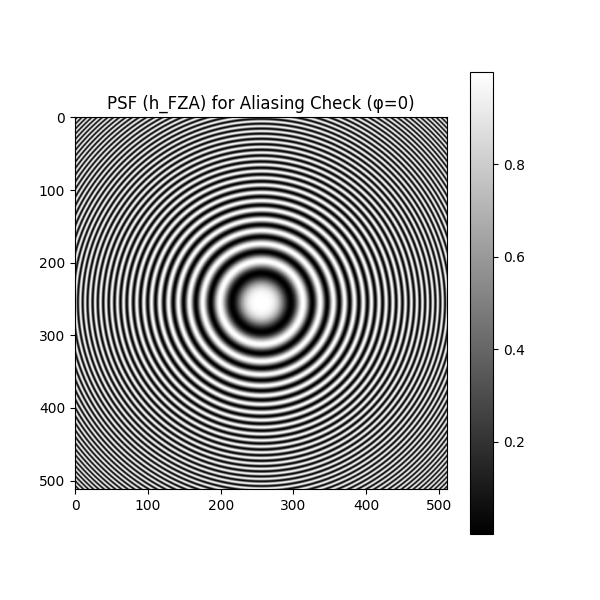
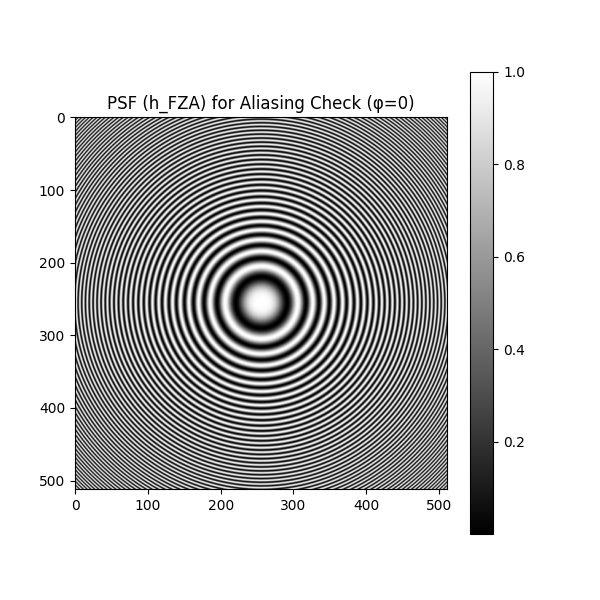
update

diff --git a/FZA_mask_reconstructed_improve.py b/FZA_mask_reconstructed_improve.py
@@ -245,7 +245,7 @@ if __name__ == '__main__':
     # パラメータの設定
     image_size=512
     grid_range=3.0
-    beta=14.5
+    beta=19.0
     d=5.0
     z=280.0
     M=d/z
